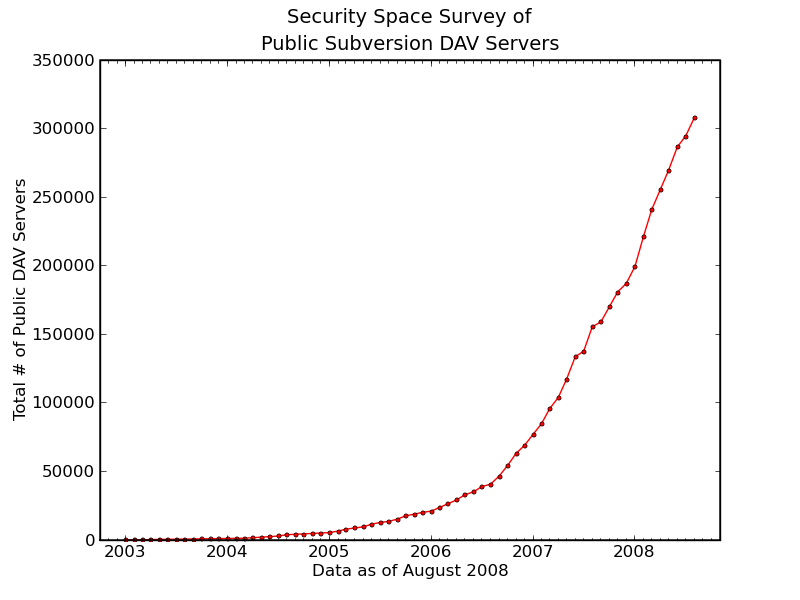
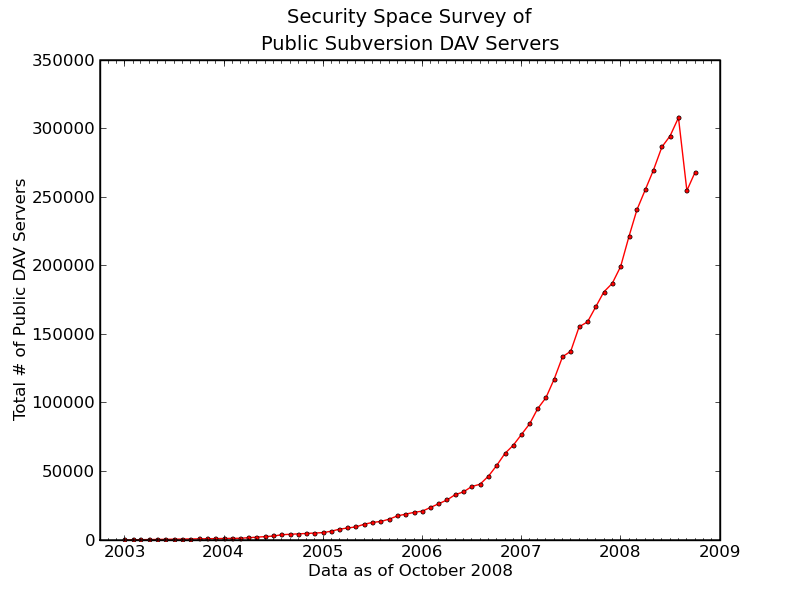
Update the dav server survey for Sept and Oct 2008.
* www/svn-dav-securityspace-survey.html,
  www/images/svn-dav-securityspace-survey.png,
  tools/dev/graph-dav-servers.py:
  Update image and table.

git-svn-id: http://svn.apache.org/repos/asf/subversion/trunk@873332 13f79535-47bb-0310-9956-ffa450edef68

diff --git a/www/svn-dav-securityspace-survey.html b/www/svn-dav-securityspace-survey.html
@@ -44,6 +44,8 @@ for <code>mod_dav_svn</code>.  Thanks Security Space!</p>
 <table style="margin-left: auto; margin-right: auto;" border="0"
   cellpadding="5" cellspacing="0">
   <tr><th>Date</th><th># Servers</th></tr>
+  <tr><td>October 2008</td><td style="text-align: right">268,081</td></tr>
+  <tr><td>September 2008</td><td style="text-align: right">254,757</td></tr>
   <tr><td>August 2008</td><td style="text-align: right">307,923</td></tr>
   <tr><td>July 2008</td><td style="text-align: right">294,579</td></tr>
   <tr><td>June 2008</td><td style="text-align: right">286,614</td></tr>

diff --git a/tools/dev/graph-dav-servers.py b/tools/dev/graph-dav-servers.py
@@ -90,7 +90,9 @@ STATS = """1/1/2003       70
 5/1/2008              269478
 6/1/2008              286614
 7/1/2008              294579
-8/1/2008              307923"""
+8/1/2008              307923
+9/1/2008              254757
+10/1/2008             268081"""
 
 
 def get_date(raw_date):
